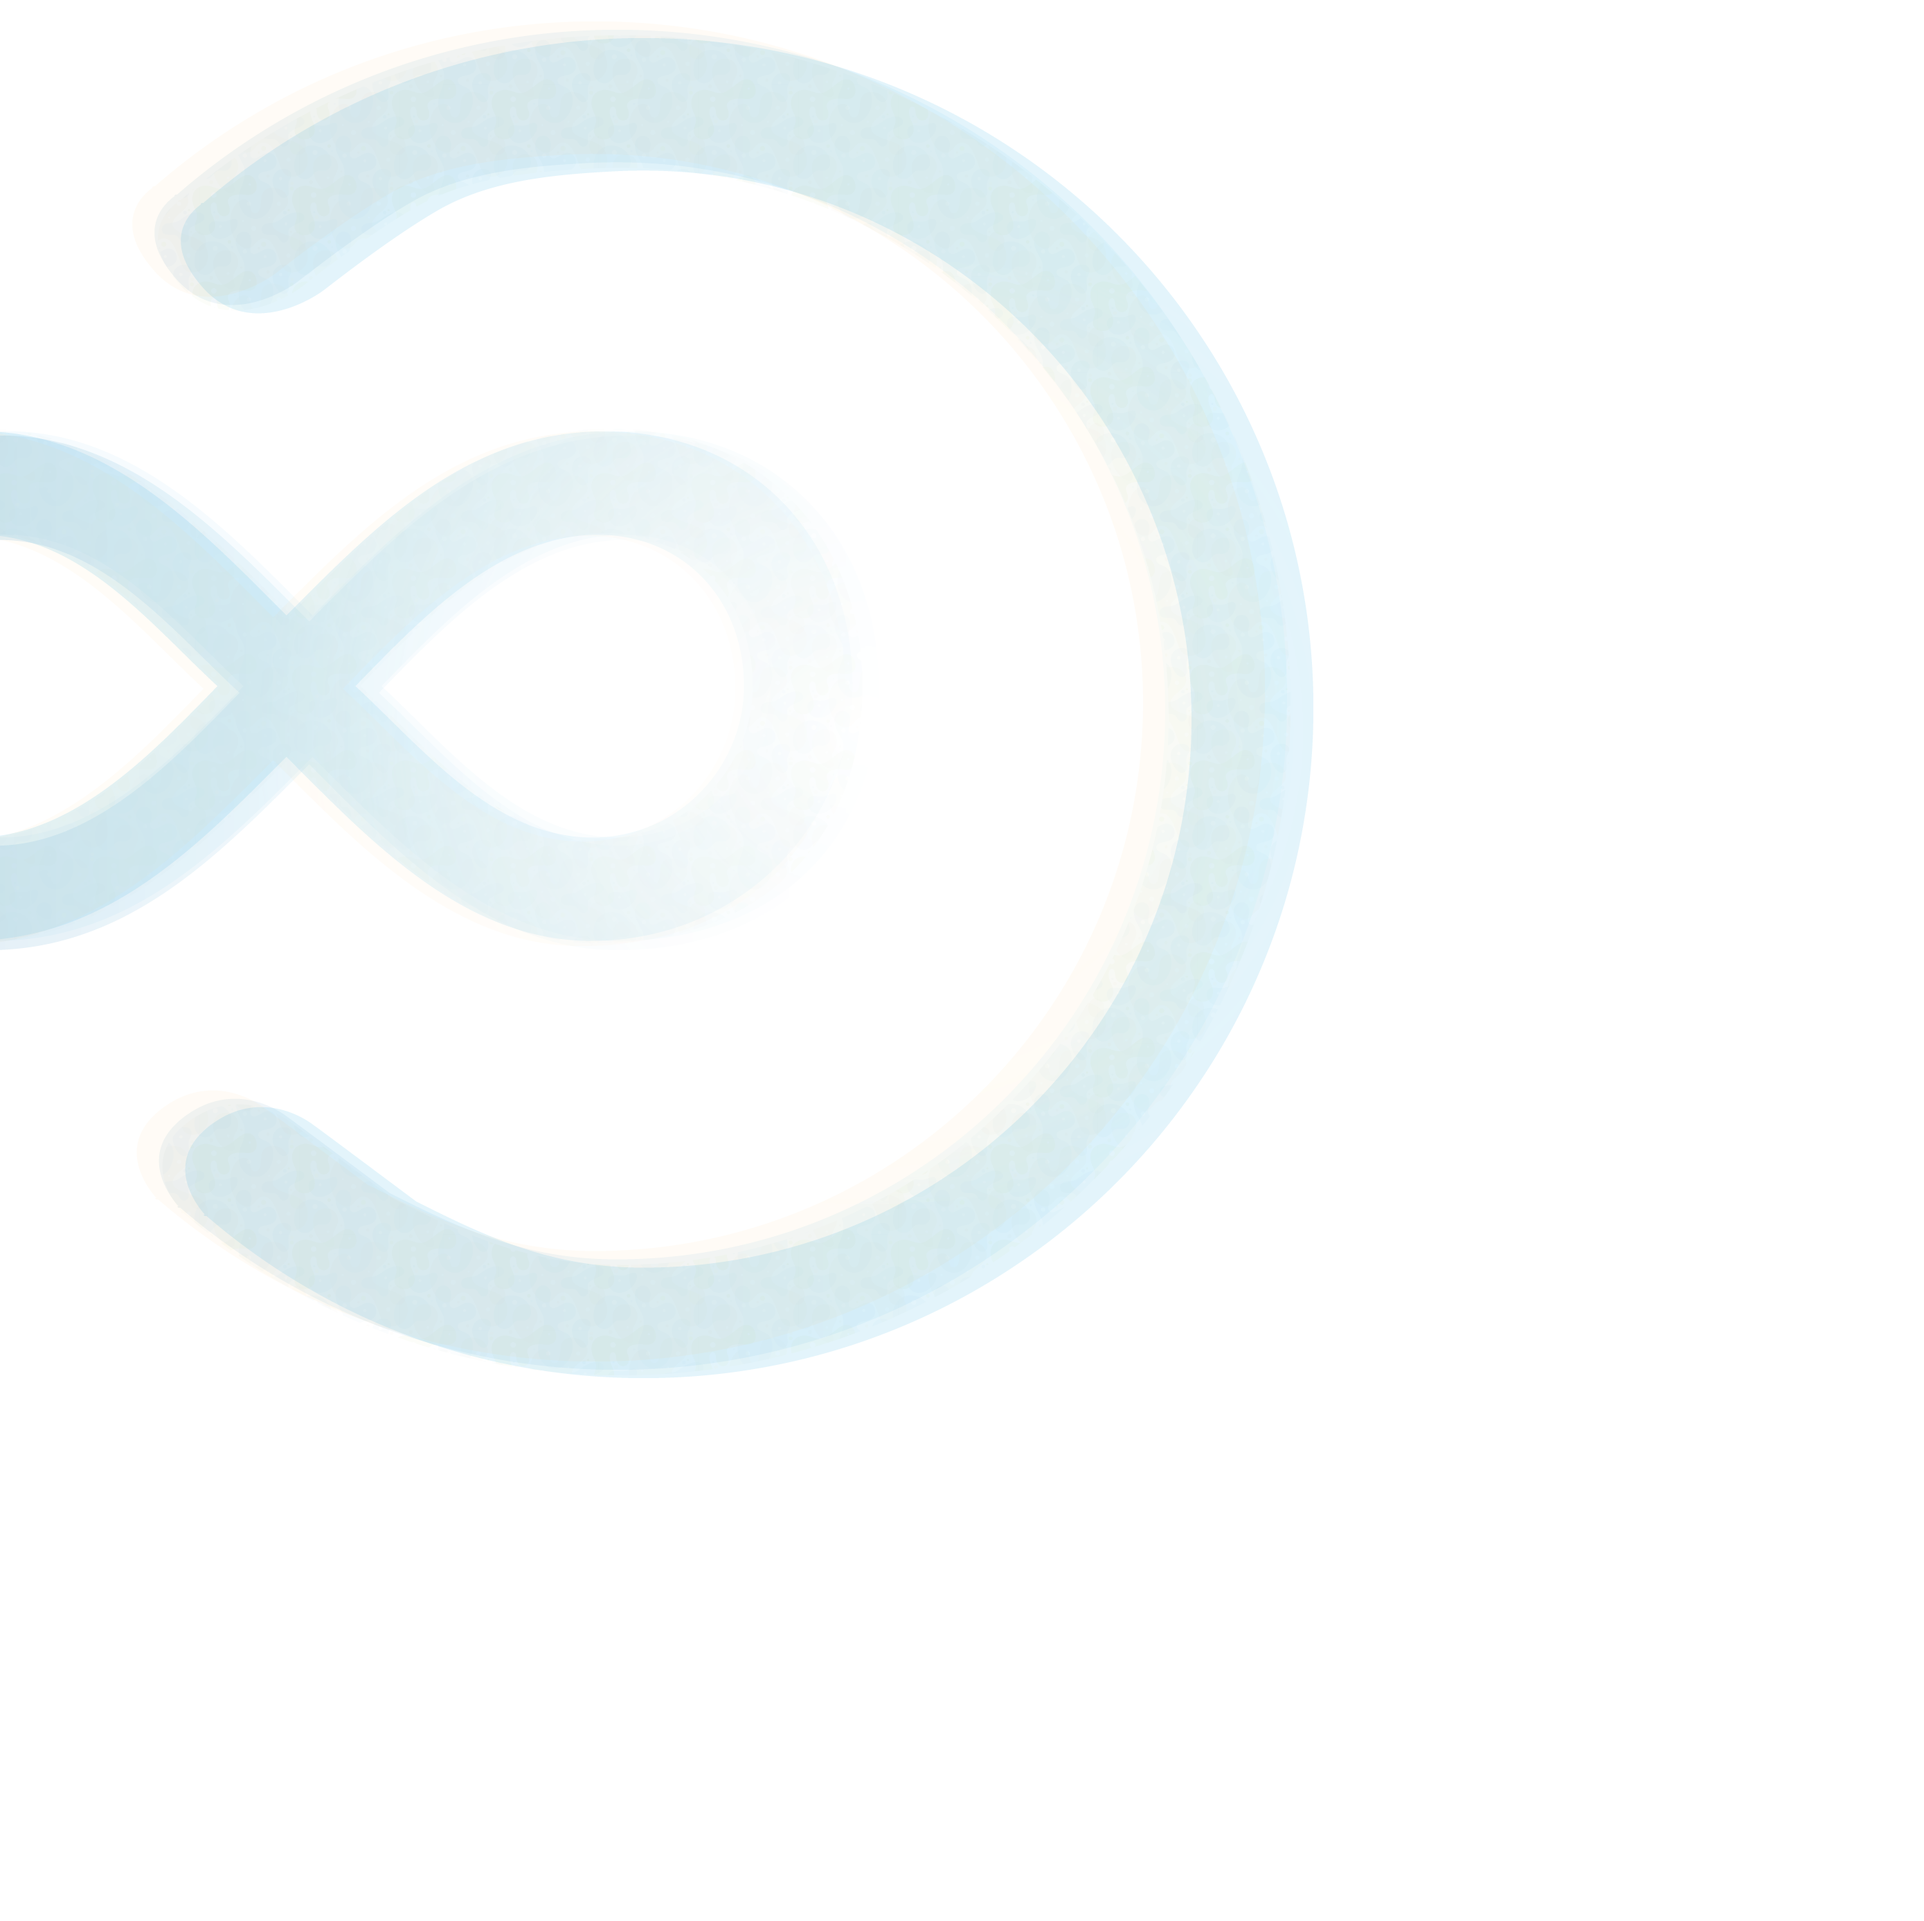
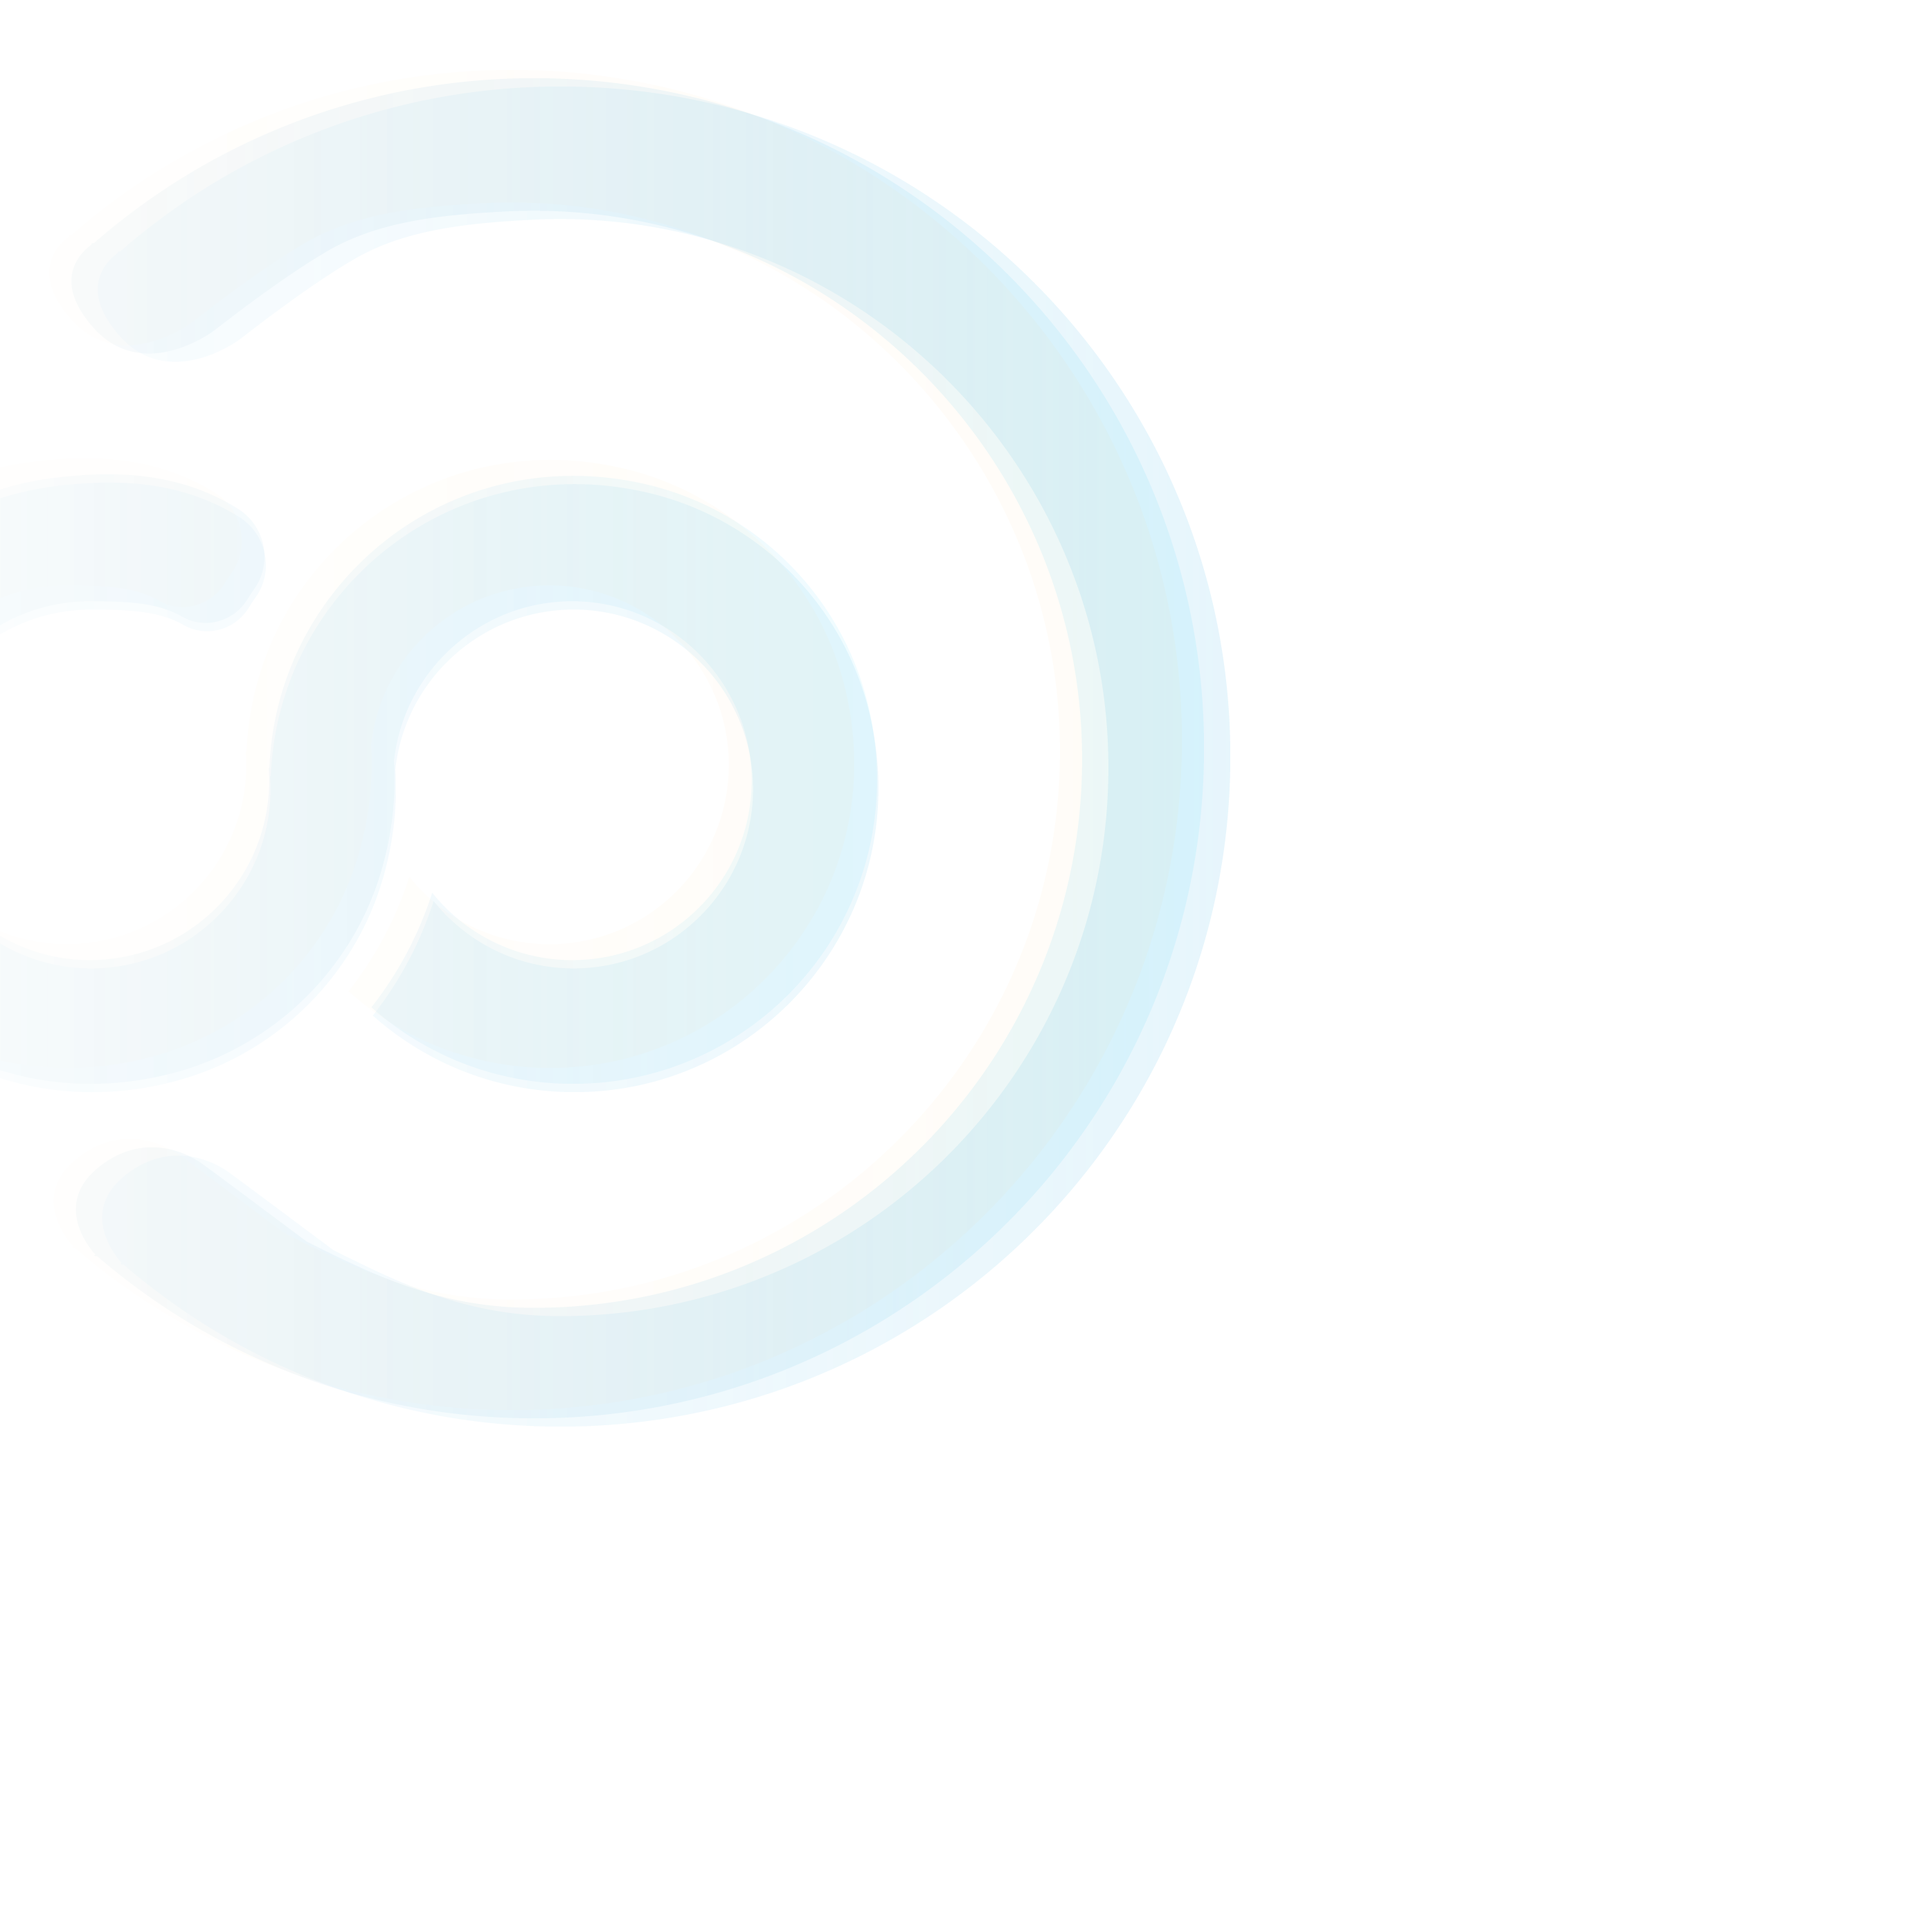
Improve features page background

diff --git a/css/indico.scss b/css/indico.scss
@@ -952,7 +952,7 @@ a.no-decoration {
  */
 .features-section-listed {
     margin-top: 30px;
-    background-image: url('../img/features_background_light.png');
+    background-image: url('../img/features_background.png');
     background-repeat: no-repeat;
 
     .section-content {
